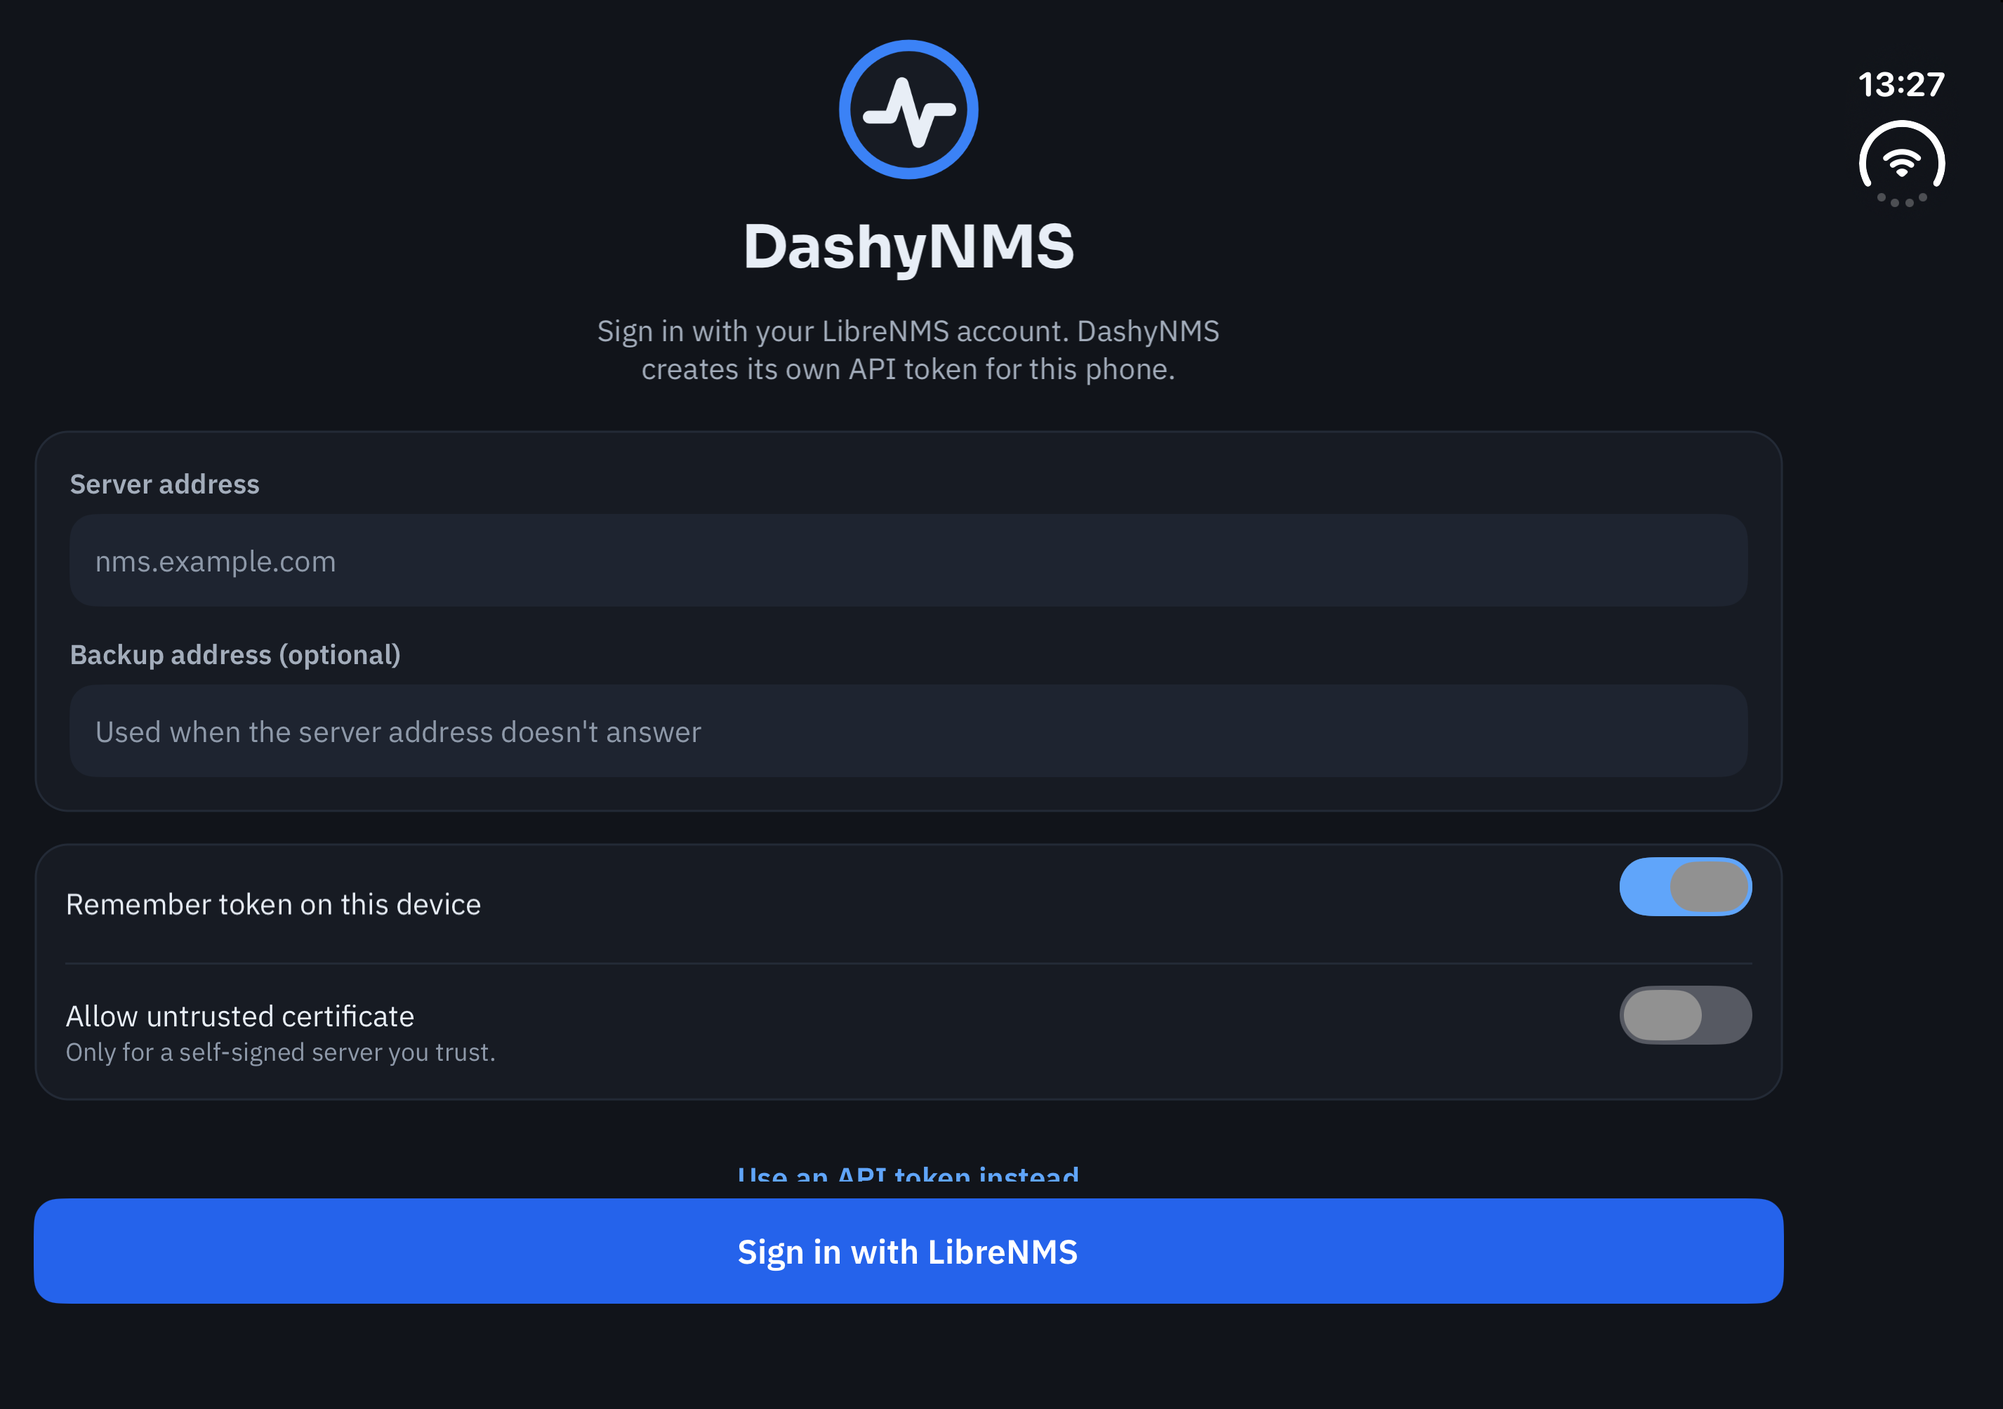
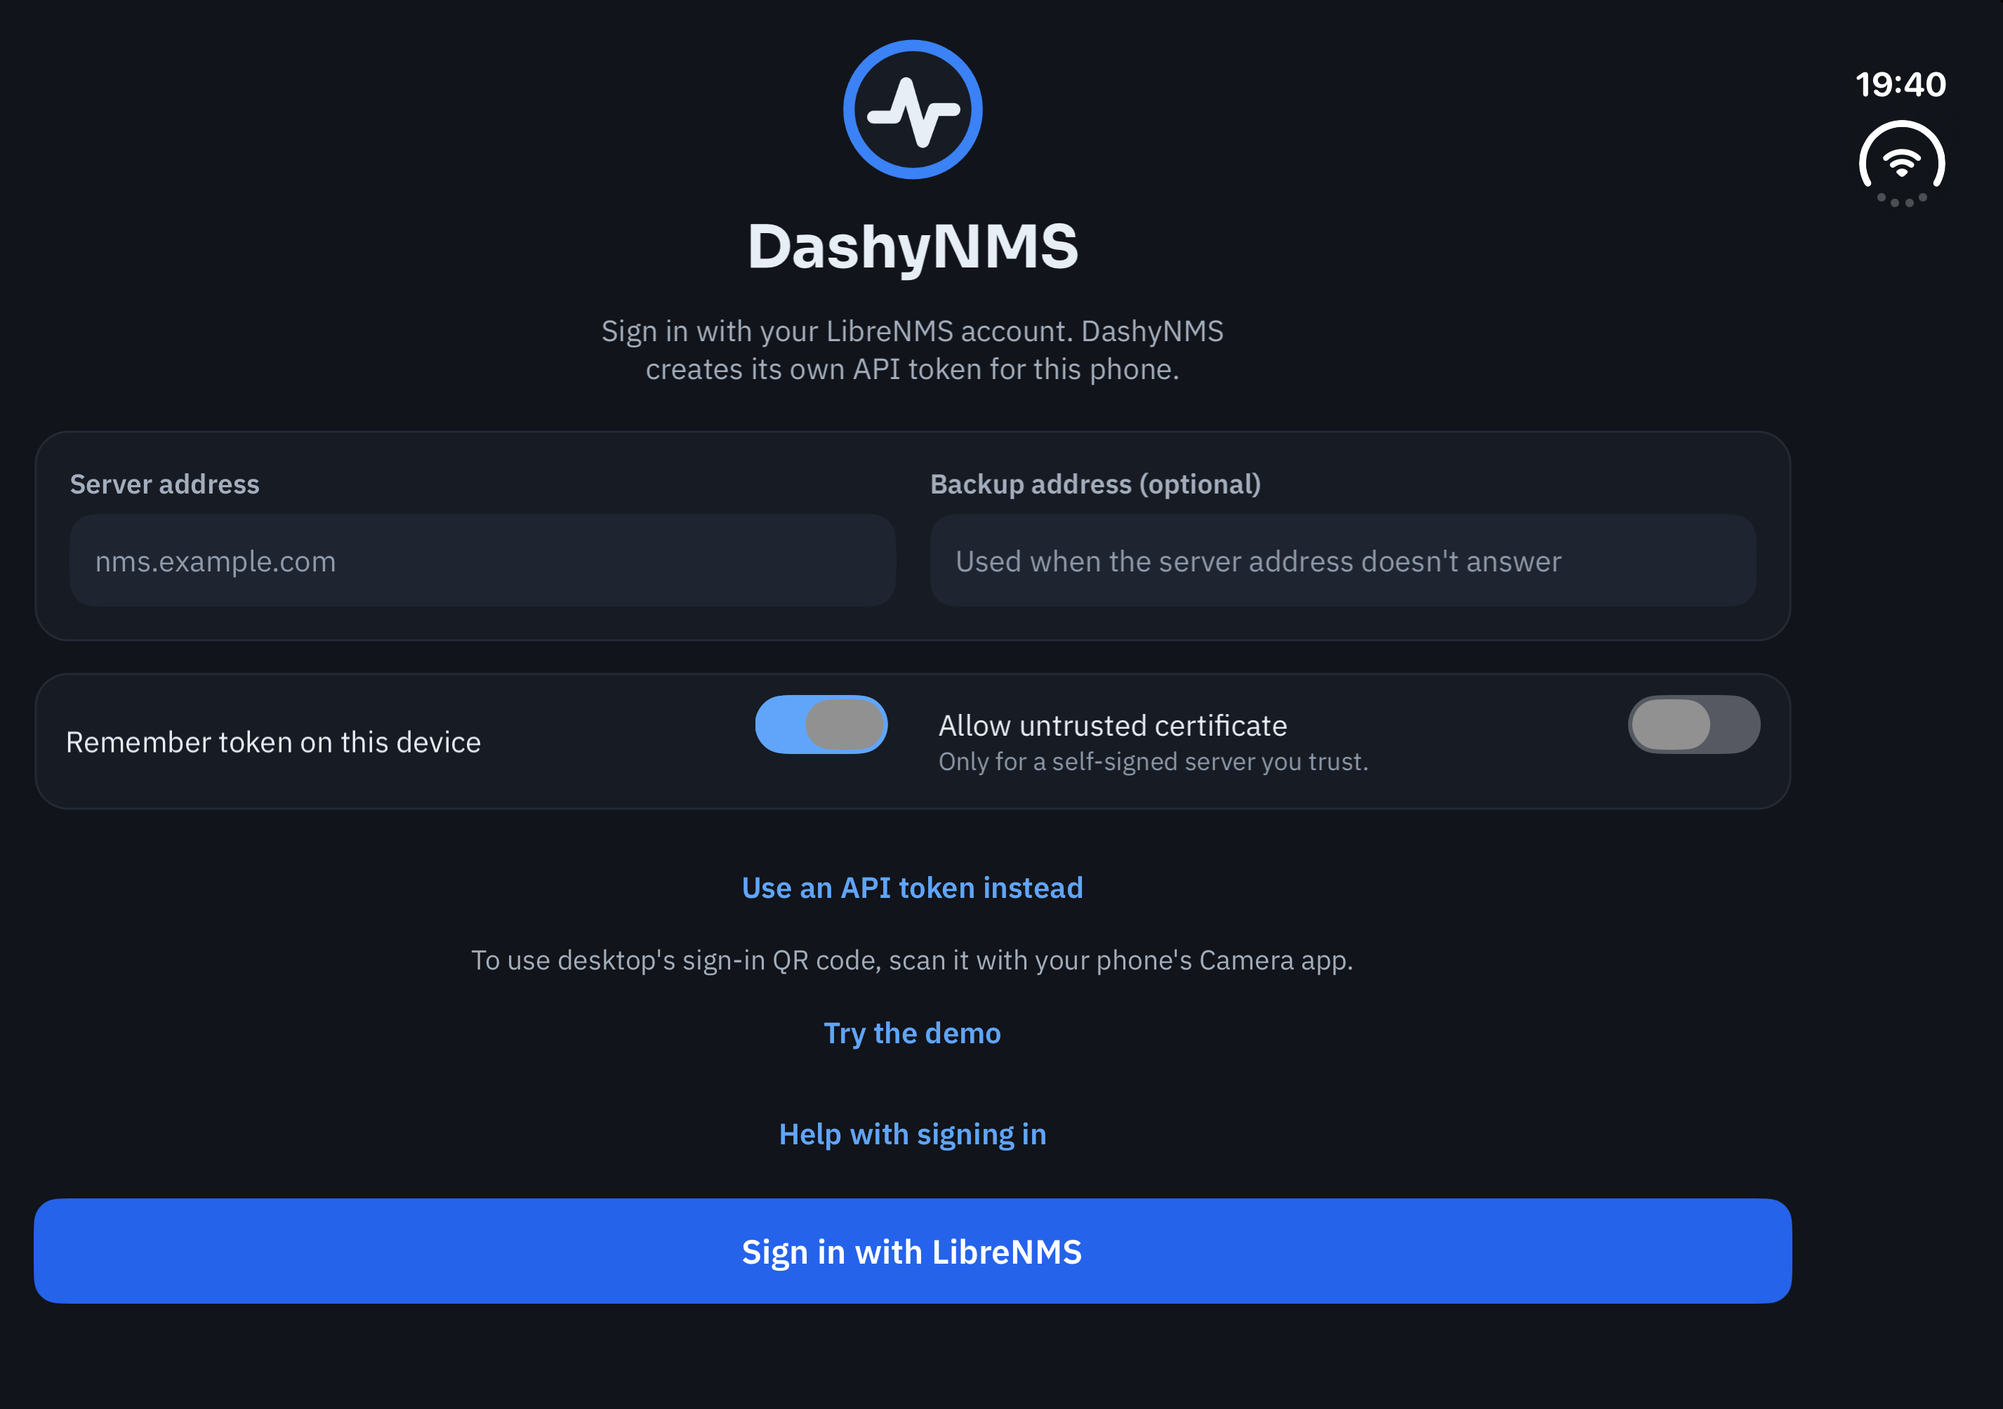
fix(sign-in): keep secondary links clear on iPhone Duo

diff --git a/src/DashyNMS.Mobile/Pages/SignInPage.xaml b/src/DashyNMS.Mobile/Pages/SignInPage.xaml
@@ -9,18 +9,7 @@
     <ContentPage.Resources>
         <Style x:Key="SignInSecondary" TargetType="Button" BasedOn="{StaticResource LinkButton}">
             <Setter Property="MinimumHeightRequest" Value="44" />
-            <Setter Property="VisualStateManager.VisualStateGroups">
-                <VisualStateGroupList>
-                    <VisualStateGroup x:Name="CommonStates">
-                        <VisualState x:Name="Normal" />
-                        <VisualState x:Name="Disabled">
-                            <VisualState.Setters>
-                                <Setter Property="Opacity" Value="0.6" />
-                            </VisualState.Setters>
-                        </VisualState>
-                    </VisualStateGroup>
-                </VisualStateGroupList>
-            </Setter>
+            <Setter Property="LineBreakMode" Value="WordWrap" />
         </Style>
     </ContentPage.Resources>
 
@@ -49,7 +38,8 @@
     <!-- As the Sign in mock-up (#69): the logo as on the splash, the
          fields in one card, the switches in another, then Sign in. -->
     <Grid x:Name="FormLayout" RowDefinitions="*,Auto" IsVisible="{Binding ShowForm}">
-    <ScrollView x:Name="FormScroll">
+    <!-- A finite viewport ends above the pinned action, including when the keyboard is open. -->
+    <ScrollView x:Name="FormScroll" Grid.Row="0">
             <VerticalStackLayout Padding="16,16,16,24" Spacing="14" IsEnabled="{Binding IsNotBusy}">
 
                 <VerticalStackLayout Spacing="12" Padding="0,0,0,6">
@@ -67,39 +57,42 @@
                 </VerticalStackLayout>
 
                 <Border Style="{StaticResource Card}" Padding="16">
-                    <VerticalStackLayout Spacing="14">
-                        <VerticalStackLayout Spacing="6">
-                            <Label Style="{StaticResource Caption}" FontFamily="BodySemibold" Text="Server address" />
-                            <Entry Text="{Binding ServerUrl}" Focused="OnFieldFocused"
-                                   MinimumHeightRequest="44" SemanticProperties.Description="Server address"
-                                   Placeholder="nms.example.com"
-                                   Keyboard="Url"
-                                   IsSpellCheckEnabled="False"
-                                   IsTextPredictionEnabled="False"
-                                   AutomationId="ServerUrl" />
-                        </VerticalStackLayout>
-                        <VerticalStackLayout Spacing="6" IsVisible="{Binding ShowsTokenEntry}">
-                            <Label Style="{StaticResource Caption}" FontFamily="BodySemibold" Text="API token" />
-                            <Entry x:Name="TokenEntry"
-                                   MinimumHeightRequest="44" SemanticProperties.Description="API token"
-                                   Text="{Binding ApiToken}"
-                                   Placeholder="Paste your API token"
-                                   IsPassword="True"
-                                   IsSpellCheckEnabled="False"
-                                   IsTextPredictionEnabled="False"
-                                   ReturnCommand="{Binding SignInCommand}"
-                                   AutomationId="ApiToken" />
-                            <!-- Where a token comes from, in Core's words (#161), and the two ways to it:
-                                 the server's API Tokens page, and the token just copied there. -->
-                            <Label Style="{StaticResource Faint}" Text="{Binding TokenHint}" />
-                            <VerticalStackLayout Spacing="8">
-                                <Button Style="{StaticResource SignInSecondary}" Text="Open the API Tokens page" MinimumHeightRequest="44"
-                                        Command="{Binding OpenTokensPageCommand}" IsVisible="{Binding CanOpenTokensPage}" />
-                                <Button Style="{StaticResource SignInSecondary}" Text="Use the token you copied" MinimumHeightRequest="44"
-                                        Command="{Binding PasteTokenCommand}" IsVisible="{Binding CanPasteToken}" />
+                    <Grid x:Name="AddressFields" ColumnDefinitions="*,0" RowDefinitions="Auto,Auto"
+                          RowSpacing="14">
+                        <VerticalStackLayout Spacing="14">
+                            <VerticalStackLayout Spacing="6">
+                                <Label Style="{StaticResource Caption}" FontFamily="BodySemibold" Text="Server address" />
+                                <Entry Text="{Binding ServerUrl}" Focused="OnFieldFocused"
+                                       MinimumHeightRequest="44" SemanticProperties.Description="Server address"
+                                       Placeholder="nms.example.com"
+                                       Keyboard="Url"
+                                       IsSpellCheckEnabled="False"
+                                       IsTextPredictionEnabled="False"
+                                       AutomationId="ServerUrl" />
+                            </VerticalStackLayout>
+                            <VerticalStackLayout Spacing="6" IsVisible="{Binding ShowsTokenEntry}">
+                                <Label Style="{StaticResource Caption}" FontFamily="BodySemibold" Text="API token" />
+                                <Entry x:Name="TokenEntry"
+                                       MinimumHeightRequest="44" SemanticProperties.Description="API token"
+                                       Text="{Binding ApiToken}"
+                                       Placeholder="Paste your API token"
+                                       IsPassword="True"
+                                       IsSpellCheckEnabled="False"
+                                       IsTextPredictionEnabled="False"
+                                       ReturnCommand="{Binding SignInCommand}"
+                                       AutomationId="ApiToken" />
+                                <!-- Where a token comes from, in Core's words (#161), and the two ways to it:
+                                     the server's API Tokens page, and the token just copied there. -->
+                                <Label Style="{StaticResource Faint}" Text="{Binding TokenHint}" />
+                                <VerticalStackLayout Spacing="8">
+                                    <Button Style="{StaticResource SignInSecondary}" Text="Open the API Tokens page"
+                                            Command="{Binding OpenTokensPageCommand}" IsVisible="{Binding CanOpenTokensPage}" />
+                                    <Button Style="{StaticResource SignInSecondary}" Text="Use the token you copied"
+                                            Command="{Binding PasteTokenCommand}" IsVisible="{Binding CanPasteToken}" />
+                                </VerticalStackLayout>
                             </VerticalStackLayout>
                         </VerticalStackLayout>
-                        <VerticalStackLayout Spacing="6">
+                        <VerticalStackLayout x:Name="BackupField" Grid.Row="1" Spacing="6">
                             <Label Style="{StaticResource Caption}" FontFamily="BodySemibold" Text="Backup address (optional)" />
                             <Entry Text="{Binding BackupAddress}" Focused="OnFieldFocused"
                                    MinimumHeightRequest="44" SemanticProperties.Description="Backup address, optional"
@@ -108,18 +101,18 @@
                                    IsSpellCheckEnabled="False"
                                    IsTextPredictionEnabled="False" />
                         </VerticalStackLayout>
-                    </VerticalStackLayout>
+                    </Grid>
                 </Border>
 
                 <Border Style="{StaticResource Card}" Padding="14,0">
-                    <VerticalStackLayout>
+                    <Grid x:Name="SignInOptions" ColumnDefinitions="*,0" RowDefinitions="Auto,Auto,Auto">
                         <Grid ColumnDefinitions="*,Auto" MinimumHeightRequest="56">
                             <Label Text="Remember token on this device" VerticalOptions="Center" />
                             <Switch Grid.Column="1" IsToggled="{Binding RememberToken}" VerticalOptions="Center"
                                     SemanticProperties.Description="Remember token on this device" MinimumHeightRequest="44" />
                         </Grid>
-                        <BoxView Style="{StaticResource Divider}" />
-                        <Grid ColumnDefinitions="*,Auto" MinimumHeightRequest="64" Padding="0,8">
+                        <BoxView x:Name="OptionsDivider" Grid.Row="1" Style="{StaticResource Divider}" />
+                        <Grid x:Name="CertificateOption" Grid.Row="2" ColumnDefinitions="*,Auto" MinimumHeightRequest="64" Padding="0,8">
                             <VerticalStackLayout VerticalOptions="Center">
                                 <Label Text="Allow untrusted certificate" />
                                 <Label Style="{StaticResource Faint}" Text="Only for a self-signed server you trust." />
@@ -127,24 +120,25 @@
                             <Switch Grid.Column="1" IsToggled="{Binding AllowUntrustedCertificate}" VerticalOptions="Center"
                                     SemanticProperties.Description="Allow untrusted certificate" MinimumHeightRequest="44" />
                         </Grid>
-                    </VerticalStackLayout>
+                    </Grid>
                 </Border>
-
 
                 <Label x:Name="SignInError" Style="{StaticResource Error}" Text="{Binding ErrorMessage}" IsVisible="{Binding HasError}" />
                 <Label Style="{StaticResource Caption}" Text="Check the details above, then try signing in again."
                        IsVisible="{Binding HasError}" />
-                <Button Style="{StaticResource SignInSecondary}" Text="Use an API token instead" MinimumHeightRequest="44"
-                        Command="{Binding UseTokenCommand}" IsVisible="{Binding ShowsWebSignIn}" />
-                <Button Style="{StaticResource SignInSecondary}" Text="Sign in with LibreNMS instead" MinimumHeightRequest="44"
-                        Command="{Binding UseLibreNmsCommand}" IsVisible="{Binding ShowsLibreNmsLink}" />
-                <Label Style="{StaticResource Caption}"
-                       Text="To use desktop's sign-in QR code, scan it with your phone's Camera app." />
-                <Button Style="{StaticResource SignInSecondary}" Text="Try the demo" MinimumHeightRequest="44"
-                        Command="{Binding TryDemoCommand}" IsVisible="{Binding CanTryDemo}"
-                        SemanticProperties.Hint="Opens DashyNMS on an example network, with no server. Your sign-in stays as it is." />
-                <Button Style="{StaticResource SignInSecondary}" Text="Help with signing in" MinimumHeightRequest="44"
-                        Command="{Binding HelpCommand}" SemanticProperties.Hint="Opens in Help" />
+                <VerticalStackLayout Spacing="4">
+                    <Button Style="{StaticResource SignInSecondary}" Text="Use an API token instead"
+                            Command="{Binding UseTokenCommand}" IsVisible="{Binding ShowsWebSignIn}" />
+                    <Button Style="{StaticResource SignInSecondary}" Text="Sign in with LibreNMS instead"
+                            Command="{Binding UseLibreNmsCommand}" IsVisible="{Binding ShowsLibreNmsLink}" />
+                    <Label Style="{StaticResource Caption}" HorizontalTextAlignment="Center"
+                           Text="To use desktop's sign-in QR code, scan it with your phone's Camera app." />
+                    <Button Style="{StaticResource SignInSecondary}" Text="Try the demo"
+                            Command="{Binding TryDemoCommand}" IsVisible="{Binding CanTryDemo}"
+                            SemanticProperties.Hint="Opens DashyNMS on an example network, with no server. Your sign-in stays as it is." />
+                    <Button Style="{StaticResource SignInSecondary}" Text="Help with signing in"
+                            Command="{Binding HelpCommand}" SemanticProperties.Hint="Opens in Help" />
+                </VerticalStackLayout>
 
             </VerticalStackLayout>
     </ScrollView>

diff --git a/src/DashyNMS.Mobile/Pages/SignInPage.xaml.cs b/src/DashyNMS.Mobile/Pages/SignInPage.xaml.cs
@@ -1,3 +1,4 @@
+using DashyNMS.Mobile.Services;
 using DashyNMS.Mobile.ViewModels;
 #if IOS
 using CoreGraphics;
@@ -9,6 +10,7 @@ public partial class SignInPage : ContentPage
 {
 	private readonly SignInViewModel _viewModel;
 	private Window? _resumeWindow;
+	private bool _wideForm;
 #if IOS
 	private LiveKeyboardBounds? _keyboard;
 #endif
@@ -17,6 +19,7 @@ public partial class SignInPage : ContentPage
 	{
 		InitializeComponent();
 		BindingContext = _viewModel = viewModel;
+		FormLayout.SizeChanged += (_, _) => PlaceForm();
 
 		// Copied text to offer as the token (#161): looked for on focusing the
 		// token box, as well as on showing and coming back to the app.
@@ -28,8 +31,29 @@ public partial class SignInPage : ContentPage
 		FormLayout.SafeAreaEdges = SafeAreaEdges.None;
 		FormScroll.SafeAreaEdges = SafeAreaEdges.None;
 		FormScroll.HandlerChanged += (_, _) => StopScrollInsets();
-		FormLayout.SizeChanged += (_, _) => PlaceKeyboard();
+		FormLayout.SizeChanged += (_, _) => Dispatcher.Dispatch(PlaceKeyboard);
 #endif
+	}
+
+	/// <summary>Use the safe content width to reclaim height without recreating focused fields on a fold.</summary>
+	private void PlaceForm()
+	{
+		var wide = FormLayout.Width >= ScreenLayout.SplitFrom && FormLayout.Width > FormLayout.Height;
+		if (_wideForm == wide) return;
+		_wideForm = wide;
+
+		var secondColumnWidth = wide ? GridLength.Star : new GridLength(0);
+		AddressFields.ColumnDefinitions[1].Width = secondColumnWidth;
+		AddressFields.ColumnSpacing = wide ? 16 : 0;
+		AddressFields.RowSpacing = wide ? 0 : 14;
+		Grid.SetRow(BackupField, wide ? 0 : 1);
+		Grid.SetColumn(BackupField, wide ? 1 : 0);
+
+		SignInOptions.ColumnDefinitions[1].Width = secondColumnWidth;
+		SignInOptions.ColumnSpacing = wide ? 24 : 0;
+		OptionsDivider.IsVisible = !wide;
+		Grid.SetRow(CertificateOption, wide ? 0 : 2);
+		Grid.SetColumn(CertificateOption, wide ? 1 : 0);
 	}
 
 	protected override void OnAppearing()
@@ -115,9 +139,21 @@ public partial class SignInPage : ContentPage
 
 	private void PlaceKeyboard()
 	{
-		if (FormLayout.Handler?.PlatformView is not UIKit.UIView view) return;
-		var overlap = _keyboard?.OverlapIn(view) ?? 0;
-		FormLayout.Padding = new Thickness(0, 0, 0, overlap);
+		if (_keyboard is null || FormLayout.Handler?.PlatformView is not UIKit.UIView { Window: { } window } view) return;
+
+		// During a fold the notification may still describe the old display.
+		// The form's live guide settles in the new coordinates independently.
+		var guide = view.KeyboardLayoutGuide.LayoutFrame;
+		var docked = guide.Width >= view.Bounds.Width * 0.8
+			&& guide.Bottom >= view.Bounds.Bottom - 1
+			&& guide.Height > window.SafeAreaInsets.Bottom + 40;
+		var overlap = docked ? Math.Max(0, view.Bounds.Bottom - guide.Top) : _keyboard.OverlapIn(view);
+		var padding = new Thickness(0, 0, 0, overlap);
+		if (FormLayout.Padding != padding)
+		{
+			FormLayout.Padding = padding;
+			if (overlap > 0) Dispatcher.Dispatch(ScrollFocusedField);
+		}
 	}
 
 	private void ScrollFocusedField()

diff --git a/docs/releases/2.0.0.md b/docs/releases/2.0.0.md
@@ -36,6 +36,7 @@ DashyNMS Mobile 2.0 brings Intelligence, alert groups for LibreNMS 26.10, offlin
 - **MAC addresses on LibreNMS 26.11.** A device's MAC table shows each address's VLAN number again, for newer servers and older ones.
 - **Sensors with no limits.** A custom sensor with no limits shows its reading without a colour on the dashboard, in the sensor picker and on the widget, rather than green for OK.
 - **Device states in Intelligence.** A device LibreNMS didn't report a state for, or one it ignores, is no longer called up or down, and network counts list them separately.
+- **Sign-in links on iPhone Duo.** The API token, demo and help links fit above the pinned sign-in button on the unfolded display at the default text size (#699).
 - **Alert rules on LibreNMS 26.11.** Rules that test a field 26.11 removed carry a warning saying what to use instead.
 - **Edit dashboard.** Set up opens Spotlight for log cards. The introduction stays clear of the heading fade, and Add a card scrolls above Undo.
 - **Devices with no ports.** Show the devices that see them, rather than an error.

diff --git a/docs/guide/getting-started.md b/docs/guide/getting-started.md
@@ -25,7 +25,7 @@ DashyNMS then creates an API token for this phone. This needs an `https` address
 
 ## Sign in with an API token
 
-1. Choose **Use an API token instead**.
+1. Choose **Use an API token instead** below the server options. If the link is off-screen, scroll the form above the pinned sign-in button.
 2. Choose **Open the API Tokens page** to make a token on your server, then copy it. If you can't create one, ask your LibreNMS administrator.
 3. Paste it under **API token**, or choose **Use the token you copied**.
 4. Choose **Sign in**.
